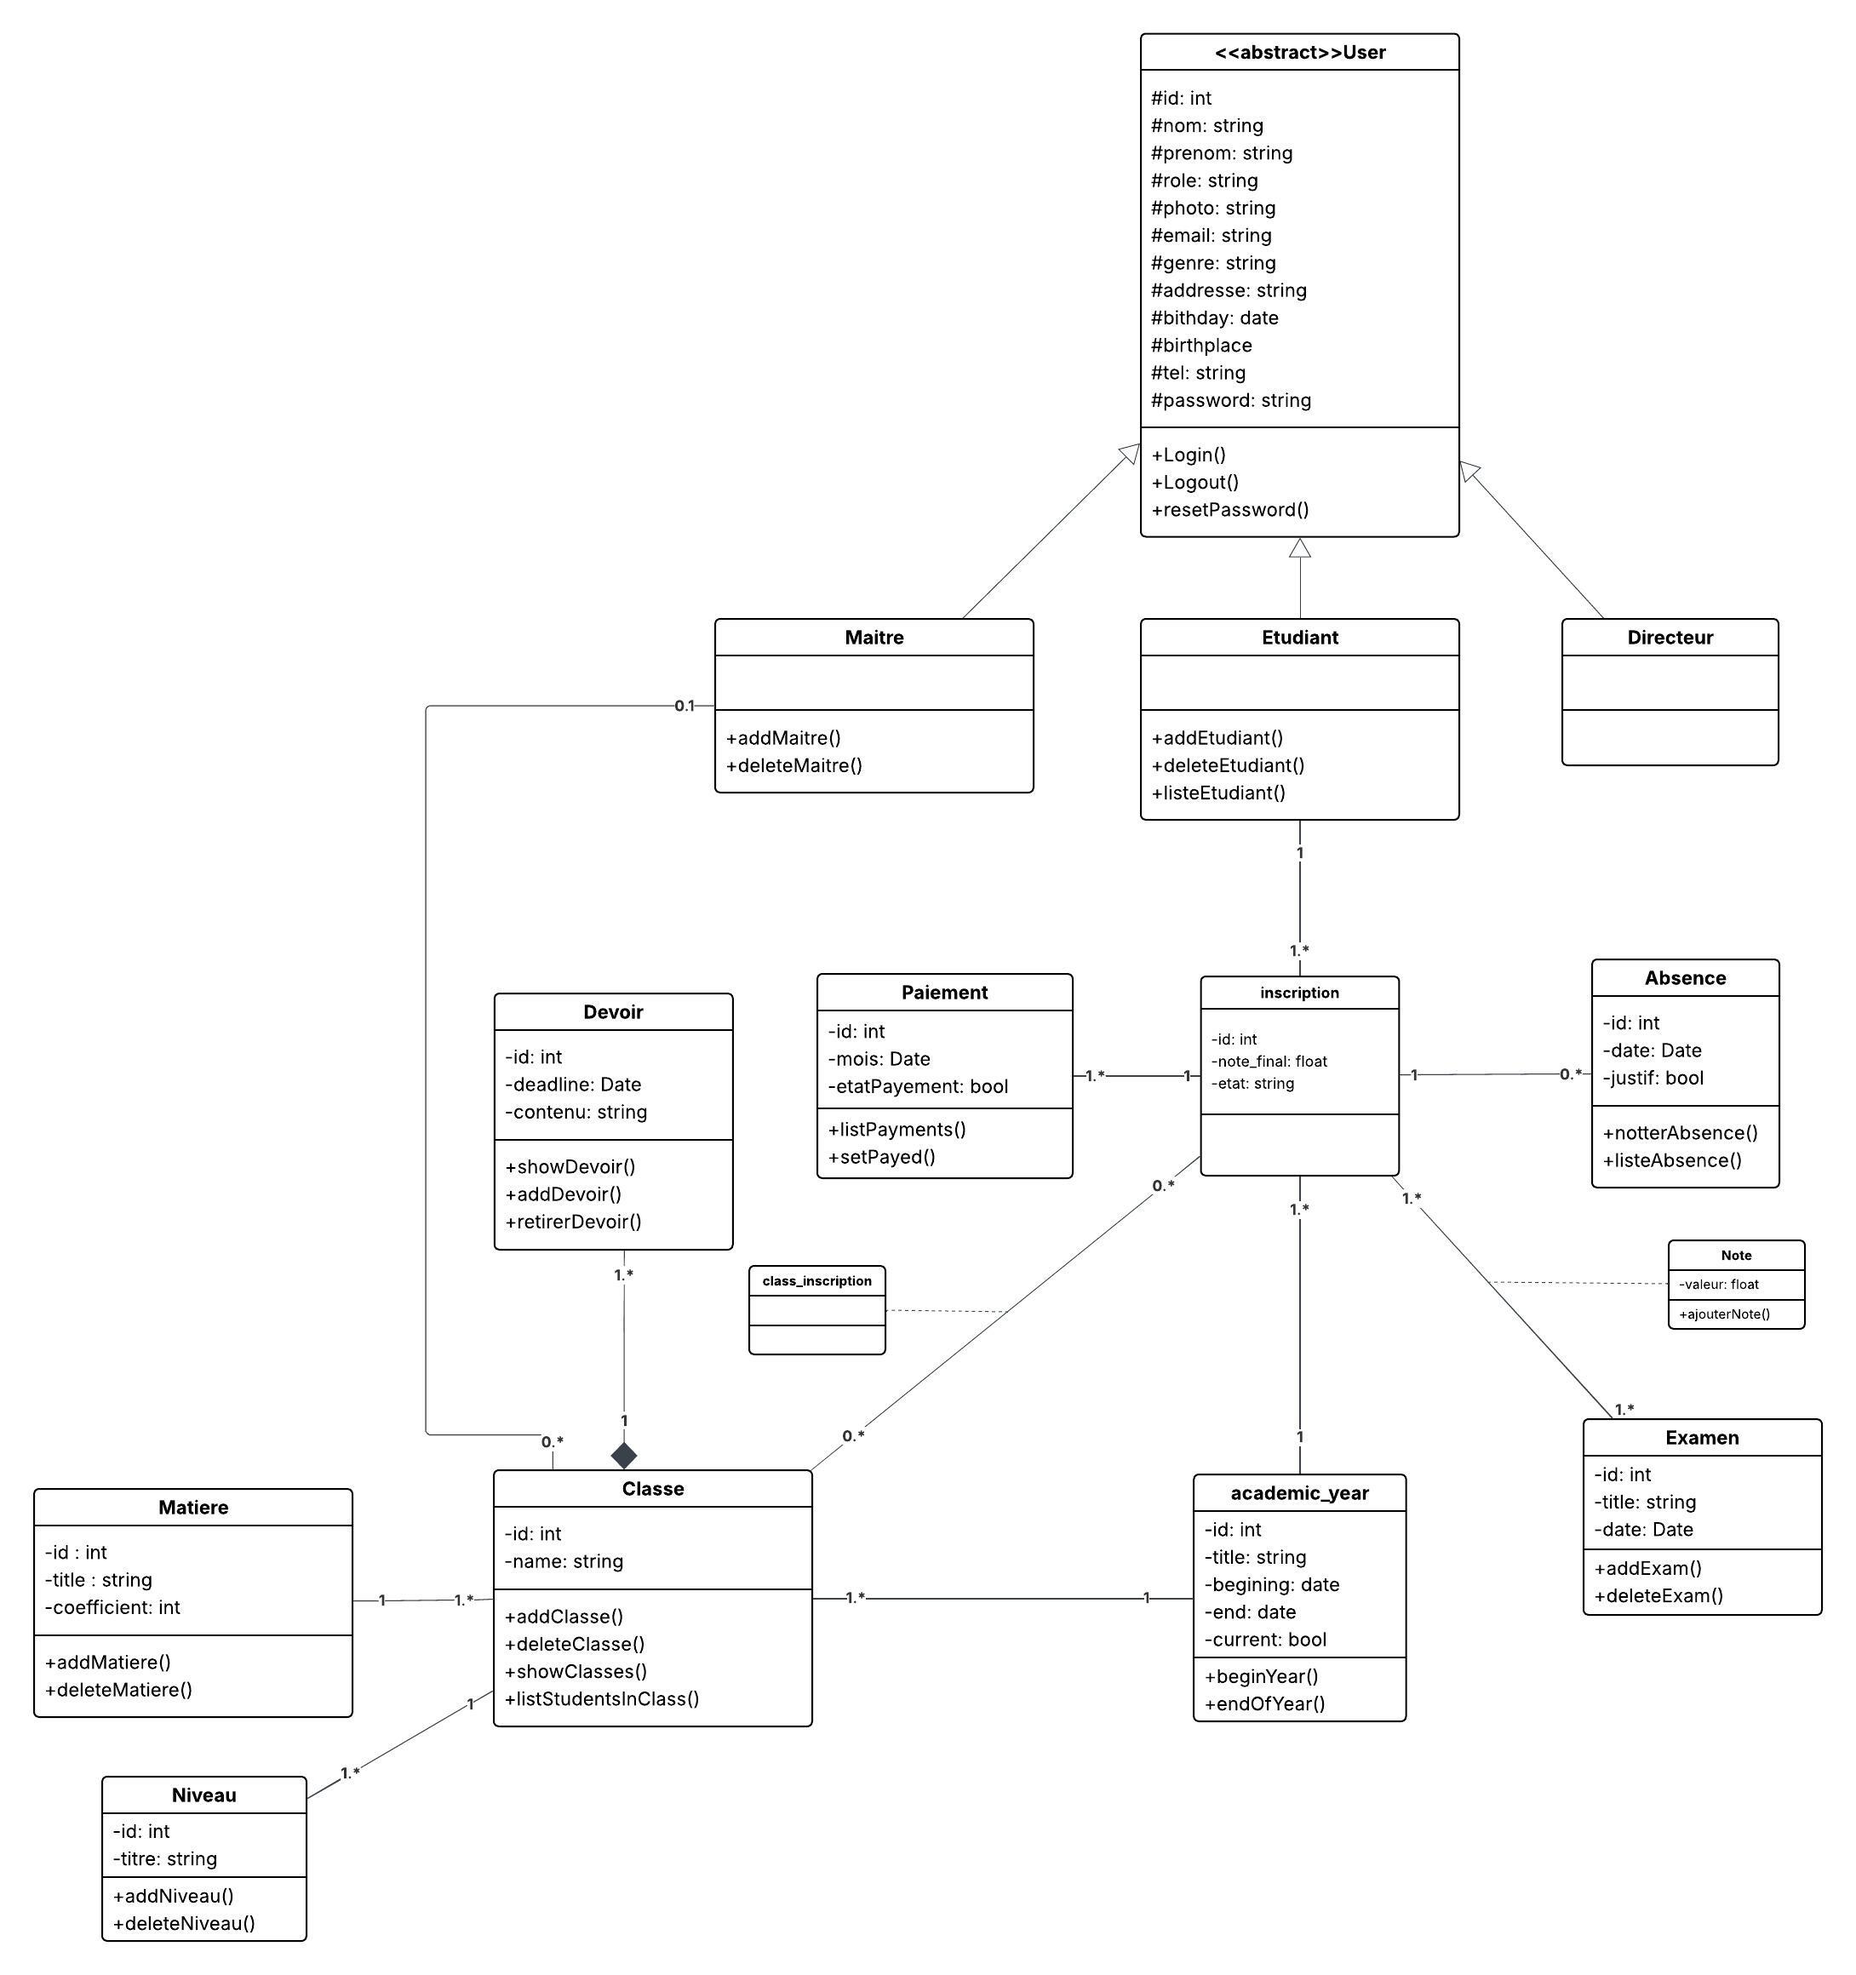
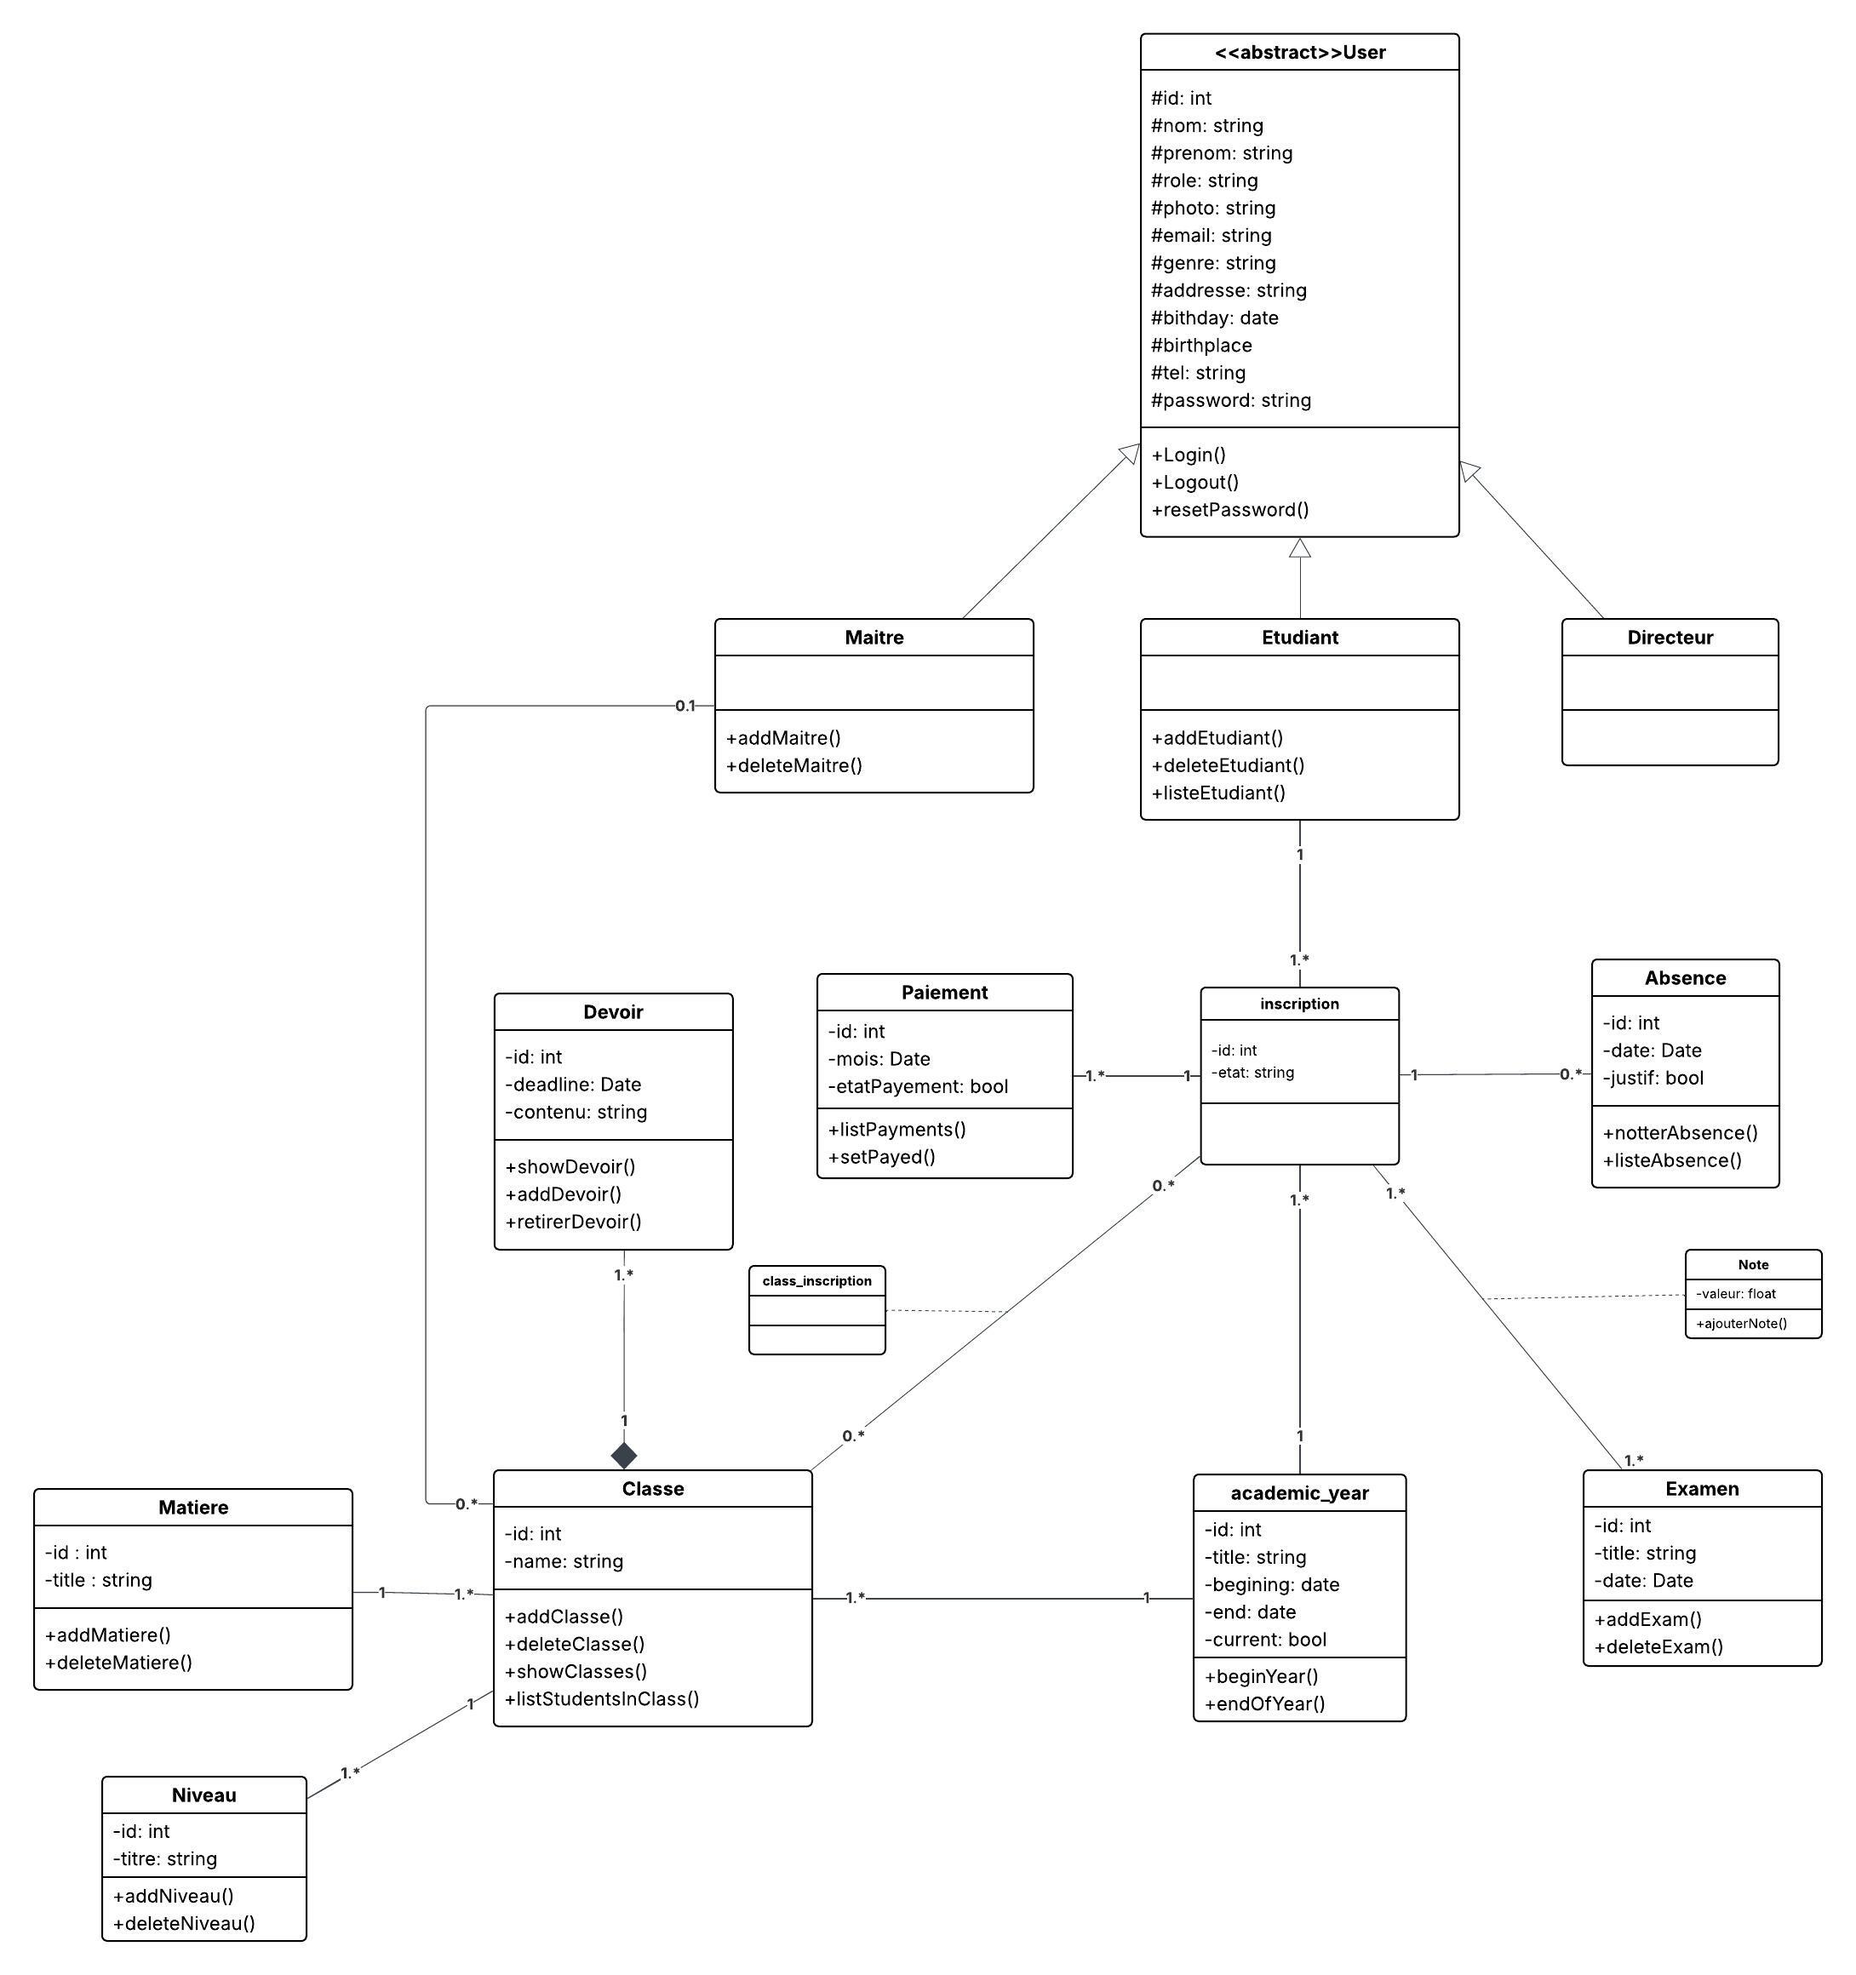
removed unusable column from subject and inscription

diff --git a/resources/js/student/paiements.js b/resources/js/student/paiements.js
@@ -1,0 +1,133 @@
+document.addEventListener("DOMContentLoaded", function () {
+    const params = new URLSearchParams(window.location.search);
+    const studentId = params.get("inscription_id") || 1;
+    const token = localStorage.getItem("token");
+    const container = document.getElementById("paiements-container");
+
+    async function fetchPaiements() {
+        if (!container) return;
+
+        try {
+            const response = await fetch(
+                `/api/v1/paiments/paiment-stats?student_id=${studentId}`,
+                {
+                    headers: {
+                        Authorization: `Bearer ${token}`,
+                        Accept: "application/json",
+                        "X-Requested-With": "XMLHttpRequest",
+                    },
+                },
+            );
+
+            if (!response.ok)
+                throw new Error("Erreur lors de la récupération des paiements");
+
+            const result = await response.json();
+            const paiements = result.data || result;
+
+            renderUI(paiements);
+        } catch (error) {
+            console.error("Erreur:", error);
+            renderMessage(
+                "Impossible de charger les paiements",
+                "text-red-500",
+            );
+        }
+    }
+
+    function renderMessage(message, textClass) {
+        container.replaceChildren();
+        const msgDiv = document.createElement("div");
+        msgDiv.className = `col-span-full text-center font-black uppercase text-xs p-10 tracking-widest ${textClass}`;
+        msgDiv.textContent = message;
+        container.appendChild(msgDiv);
+    }
+
+    function renderUI(data) {
+        container.replaceChildren();
+
+        if (data.length === 0) {
+            renderMessage(
+                "Aucun historique de paiement trouvé",
+                "text-gray-500 border border-dashed border-gray-800 rounded-2xl",
+            );
+            return;
+        }
+
+        data.forEach((paiement) => {
+            const status = (
+                paiement.status ||
+                paiement.statut ||
+                "pending"
+            ).toLowerCase();
+            const isPaid =
+                status === "paid" ||
+                status === "payé" ||
+                status === "completed";
+
+            // --- Card Container ---
+            const card = document.createElement("div");
+            card.className =
+                "bg-gray-900 border border-gray-800 p-6 rounded-2xl hover:border-gray-700 transition-all relative overflow-hidden flex flex-col";
+
+            // --- Status Accent (Top Bar) ---
+            const accent = document.createElement("div");
+            accent.className = `absolute left-0 right-0 top-0 h-1 ${isPaid ? "bg-emerald-500" : "bg-rose-500"}`;
+            card.appendChild(accent);
+
+            // --- Month & Year ---
+            const dateLabel = document.createElement("p");
+            dateLabel.className =
+                "text-[10px] font-black text-gray-500 uppercase tracking-widest mb-1";
+            dateLabel.textContent = paiement.period || "Mensualité";
+            card.appendChild(dateLabel);
+
+            // --- Amount ---
+            const amount = document.createElement("h3");
+            amount.className = "text-2xl font-black text-white mb-4";
+            // Formatage monétaire (ex: 500 DH ou 500 €)
+            amount.textContent = new Intl.NumberFormat("fr-FR", {
+                style: "currency",
+                currency: "EUR",
+            }).format(paiement.amount || 0);
+            card.appendChild(amount);
+
+            // --- Status Badge ---
+            const statusWrapper = document.createElement("div");
+            statusWrapper.className =
+                "flex items-center justify-between mt-auto pt-4 border-t border-gray-800/50";
+
+            const badge = document.createElement("span");
+            badge.className = `px-3 py-1 text-[9px] font-black uppercase rounded-md border ${
+                isPaid
+                    ? "bg-emerald-500/10 text-emerald-500 border-emerald-500/30"
+                    : "bg-rose-500/10 text-rose-500 border-rose-500/30"
+            }`;
+            badge.textContent = isPaid ? "Réglé" : "En attente";
+
+            statusWrapper.appendChild(badge);
+
+            // --- Reference / Date ---
+            const refText = document.createElement("span");
+            refText.className = "text-[10px] font-mono text-gray-600";
+            refText.textContent = paiement.date_paiement
+                ? `Le ${formatShortDate(paiement.date_paiement)}`
+                : "Réf: " + (paiement.id || "---");
+
+            statusWrapper.appendChild(refText);
+            card.appendChild(statusWrapper);
+
+            container.appendChild(card);
+        });
+    }
+
+    function formatShortDate(dateString) {
+        return new Intl.DateTimeFormat("fr-FR", {
+            day: "2-digit",
+            month: "2-digit",
+            year: "numeric",
+        }).format(new Date(dateString));
+    }
+
+    fetchPaiements();
+});

diff --git a/resources/js/list/students.js b/resources/js/list/students.js
@@ -52,11 +52,7 @@ async function fetchLevels() {
 }
 
 function performSearch() {
-    const search = document
-        .getElementById("search-input")
-        .value.charAt(0)
-        .toUpperCase()
-        .trim();
+    const search = document.getElementById("search-input").value.trim();
     const levelId = document.getElementById("level-filter").value;
 
     let url = "/api/v1/students?";

diff --git a/resources/views/students/notes.blade.php b/resources/views/students/notes.blade.php
@@ -22,13 +22,6 @@
                     </select>
                 </div>
 
-                <div class="flex flex-col gap-1.5">
-                    <label class="text-[8px] font-black uppercase text-gray-500 tracking-[0.2em] ml-1 text-nowrap">Trier par Date</label>
-                    <select class="bg-gray-900 border border-gray-800 text-[10px] font-black uppercase tracking-widest px-4 py-2 rounded-lg focus:border-amber-500 outline-none transition-colors cursor-pointer text-amber-500 min-w-40">
-                        <option value="recent">Plus récent</option>
-                        <option value="old">Plus ancien</option>
-                    </select>
-                </div>
             </div>
         </div>
 
@@ -40,7 +33,6 @@
                             <th class="p-6 text-[10px] font-black uppercase tracking-widest text-gray-500">Examen</th>
                             <th class="p-6 text-[10px] font-black uppercase tracking-widest text-gray-500">Matière</th>
                             <th class="p-6 text-[10px] font-black uppercase tracking-widest text-gray-500 text-nowrap">Enseignant</th>
-                            <th class="p-6 text-[10px] font-black uppercase tracking-widest text-gray-500 text-center">Coefficient</th>
                             <th class="p-6 text-[10px] font-black uppercase tracking-widest text-gray-500">Date</th>
                             <th class="p-6 text-[10px] font-black uppercase tracking-widest text-amber-500 text-right">Note</th>
                         </tr>

diff --git a/resources/views/students/paiments.blade.php b/resources/views/students/paiments.blade.php
@@ -1,0 +1,26 @@
+@extends('layouts.student')
+@section('title', 'Mes Paiements - School-Way')
+
+@section('content')
+
+@vite(['resources/js/student/paiements.js'])
+
+<div class="w-full h-full p-6 md:p-12 text-white">
+    <div class="max-w-5xl mx-auto space-y-6">
+
+        <div class="flex items-center justify-between">
+            <h2 class="text-xl font-black uppercase tracking-tighter">Historique des Paiements</h2>
+            <div id="payment-summary" class="hidden md:flex gap-4">
+            </div>
+        </div>
+
+        <div id="paiements-container" class="grid grid-cols-1 sm:grid-cols-2 lg:grid-cols-3 gap-4">
+            <div class="col-span-full py-20 text-center animate-pulse text-gray-500 uppercase font-black text-xs tracking-widest">
+                Vérification des transactions...
+            </div>
+        </div>
+
+    </div>
+</div>
+
+@endsection

diff --git a/database/seeders/SubjectSeeder.php b/database/seeders/SubjectSeeder.php
@@ -10,10 +10,10 @@ class SubjectSeeder extends Seeder
     public function run(): void
     {
         $subjects = [
-            ['name' => 'Mathématiques', 'coefficient' => 7],
-            ['name' => 'Physique-Chimie', 'coefficient' => 5],
-            ['name' => 'Informatique', 'coefficient' => 2],
-            ['name' => 'Français', 'coefficient' => 4],
+            ['name' => 'Mathématiques' ],
+            ['name' => 'Physique-Chimie' ],
+            ['name' => 'Informatique' ],
+            ['name' => 'Français' ],
         ];
         foreach ($subjects as $subject) {
             Subject::firstOrCreate(['name' => $subject['name']], $subject);

diff --git a/database/migrations/2026_03_26_180753_create_inscriptions_table.php b/database/migrations/2026_03_26_180753_create_inscriptions_table.php
@@ -14,7 +14,6 @@ return new class extends Migration {
             $table->id();
             $table->foreignId('student_id')->constrained()->cascadeOnDelete();
             $table->foreignId('year_id')->constrained('academic_year')->cascadeOnDelete();
-            $table->float('note_final')->nullable();
             $table->string('statut')->default('current');
             $table->timestamps();
         });

diff --git a/app/Http/Controllers/API/V1/StudentController.php b/app/Http/Controllers/API/V1/StudentController.php
@@ -196,9 +196,6 @@ class StudentController extends Controller
                 : $student->user->password,
         ]);
 
-        $student->update([
-            'note_final' => $request->note_final,
-        ]);
 
         return response()->json([
             'message' => 'Student updated successfully',

diff --git a/app/Http/Controllers/API/V1/SubjectController.php b/app/Http/Controllers/API/V1/SubjectController.php
@@ -28,7 +28,6 @@ class SubjectController extends Controller
     {
         $validated = $request->validate([
             'name' => 'required|string|unique:subjects,name|max:255',
-            'coefficient' => 'required|integer',
         ]);
 
         $subject = Subject::create($validated);

diff --git a/database/migrations/2026_03_07_184138_create_subjects_table.php b/database/migrations/2026_03_07_184138_create_subjects_table.php
@@ -13,7 +13,6 @@ return new class extends Migration {
         Schema::create('subjects', function (Blueprint $table) {
             $table->id();
             $table->string('name');
-            $table->integer('coefficient');
             $table->timestamps();
         });
     }

diff --git a/routes/web.php b/routes/web.php
@@ -108,4 +108,8 @@ Route::prefix('student')->group(function () {
     Route::get('/devoirs', function () {
         return view('students.devoirs');
     });
+
+    Route::get('/paiements', function () {
+        return view('students.paiments');
+    });
 });

diff --git a/app/Models/Inscription.php b/app/Models/Inscription.php
@@ -12,7 +12,6 @@ class Inscription extends Model
     protected $fillable = [
         'student_id',
         'year_id',
-        'note_final',
         'statut',
     ];
 

diff --git a/app/Models/Subject.php b/app/Models/Subject.php
@@ -8,7 +8,6 @@ class Subject extends Model
 {
     protected $fillable = [
         'name',
-        'coefficient',
     ];
     public function schoolClasses()
     {
